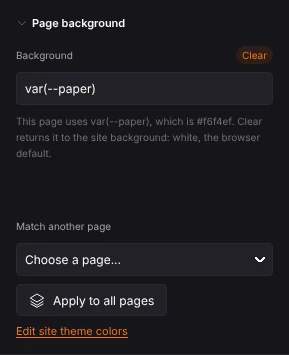
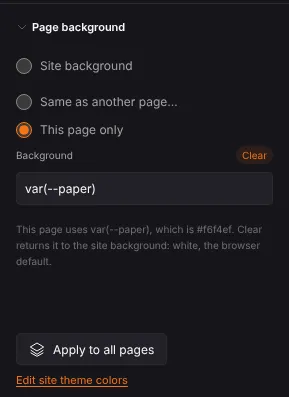
docs(guide): Page background and theme colors explains the three choices and the site background, with a worked example in Harbour Ferries and new pictures; the guide index names it

diff --git a/docs/guide/05-background-and-theme-colors.md b/docs/guide/05-background-and-theme-colors.md
@@ -8,17 +8,18 @@ The examples use **Coldmere Plumbing** (**Help > Demos > Coldmere Plumbing**) an
 
 A page's background is the background of its top layer, the page itself (the first row in the Layers list). A new page has no background of its own, so it shows what a browser shows for a page with no colors: a white background and black text. That is true on the canvas and in the exported site alike.
 
-So when you add a page to a site with a colored design, the new page starts white unless you choose otherwise. You decide where a page's background comes from, in three places:
+So when you add a page to a site with a colored design, the new page starts white unless you choose otherwise. You decide where a page's background comes from:
 
+- for the whole site, with a **site background**: one color that every page on it shows and that new pages start with (see [The site background](#the-site-background));
 - when you add the page, with **Background** in the Add page dialog;
-- afterwards, with **Match another page** in the Page background section;
+- afterwards, with **Same as another page...** in the Page background section;
 - for every page at once, with **Apply to all pages**, or by changing a theme color the pages share (see below).
 
 ## Choose the background of a new page
 
 The Add page dialog (the **+** next to PAGES, or **Add page...** in a page's right-click menu) has a **Background** list:
 
-- **Site background (white)**, chosen at first: the page has no background of its own, so it is white with black text.
+- **Site background**, chosen at first. When the site has a site background, this item shows its color, for example "Site background (#f3f6f7)", and the new page uses it. When it has none, it reads **Site background (white)**: the page has no background of its own, so it is white with black text.
 - **Same as Home (home page)**: the new page starts with the home page's background and text color.
 - **Same as** the page open now: the page you were on when you clicked **+**, for example "Same as Contact, the page open now". This item is there when the open page is not the home page.
 
@@ -32,14 +33,47 @@ The new page gets a copy of the values, not a link: if you later type a new back
 
 Choose **Page > Page background...**, right-click an empty part of the page and choose **Page background**, or right-click the page in the PAGES list and choose **Page background...**. The right panel opens the **Page** tab at its **Page background** section.
 
-![The Page background section of Coldmere's Home page: Background reads var(--paper), with a Clear link; the note says this page uses var(--paper), which is #f6f4ef, and Clear returns it to the site background, white, the browser default; under it the Match another page list reading Choose a page..., the Apply to all pages button and the Edit site theme colors link](images/background-page-field.webp)
+The section starts with three choices. The one the page uses now is chosen:
+
+- **Site background**: the page shows the site background, the one color for the whole site. See [The site background](#the-site-background).
+- **Same as another page...**: shows the **Match another page** list, to copy another page's background.
+- **This page only**: the page has a background of its own, typed in the **Background** field.
+
+![The Page background section of Coldmere's Home page: This page only is chosen, Background reads var(--paper), with a Clear link; the note says this page uses var(--paper), which is #f6f4ef, and Clear returns it to the site background, white, the browser default; under it the Apply to all pages button and the Edit site theme colors link](images/background-page-field.webp)
+
+With **This page only** chosen:
 
 - **Background** takes a color such as `#f3efe6`, a color name, a gradient, or one of the site's colors such as `var(--paper)`. Press Enter to keep it. If the browser cannot read what you typed as a background (for example two values run together, like `var(--bg)#f3efe6`), the field goes back to what it was and the status line says why.
 - The note under the field says what the page uses now, and which other pages use the same value (for example "Home +7 uses var(--bg)").
 - **Clear** (also **Page > Clear page background**) removes this page's own background. The page is white again.
-- **Match another page** gives this page the background and text color of the page you pick in the list. The home page comes first, marked "(home page)". The list goes back to "Choose a page..." and the status line confirms it, for example "The background and text color of "Home" are now used on "Hello"." It is one undo step. **Page > Use the home page background** does the same with the home page in one click.
+- If the color is so dark that black text cannot be read on it, and the page has no text color of its own, the page's text turns white in the same step, and the status line says so. A light color later turns it back. A text color you chose yourself is never changed.
+- **Match another page** (under **Same as another page...**) gives this page the background and text color of the page you pick in the list. The home page comes first, marked "(home page)". The list goes back to "Choose a page..." and the status line confirms it, for example "The background and text color of "Home" are now used on "Hello"." It is one undo step. **Page > Use the home page background** does the same with the home page in one click.
 - **Apply to all pages** (also **Page > Use this page background on all pages**) gives every page this page's background, in one undo step. The status line confirms it, for example "Background #f3efe6 applied to all 8 pages."
 - The field always sets the page's base (Desktop) style, whatever breakpoint the canvas shows.
+
+## The site background
+
+The site background is one color for the whole site. Every page that uses it shows it, every page you add starts with it, and when you change it, all those pages change at once. It is saved with the site's theme colors as `--page-background`, so the exported site has it too.
+
+A site does not have one until you set it. Until then, **Site background** means white, the browser default, as before, and opening an older site changes nothing.
+
+1. Choose **Site background**. The section shows **Site background colour**.
+2. Type a color and press Enter. The site background is created, this page uses it, and the status line says, for example, "Site background #f3efe6 created. "Hello" uses it, and new pages start with it." It is one undo step.
+
+If the site's design already has a page color, the section offers it as a link, such as **Use --bg (#f3f6f7), the theme page colour**. Click it to make that color the site background instead of typing a second one: the site background then follows the theme color, and the field edits that color.
+
+![The Page background section of Harbour Ferries' Timetable and fares page with Site background chosen: an empty Site background colour field, the link Use --bg (#f3f6f7), the theme page colour, the note that the page uses white, the browser default, and that a colour gives the site a background that new pages start with](images/background-site-offer.webp)
+
+Once the site has one:
+
+- **Site background colour** changes it. On a site with light and dark themes there are two fields, one per theme.
+- The note says how many pages use it, for example "8 of 8 pages use the site background."
+- **Use the site background on all pages** (also **Page > Use the site background on all pages**) puts every page on it, in one undo step. **Apply to all pages**, under **This page only**, still copies one page's own color to every page.
+- Choosing **Site background** on another page puts that page on it at once.
+
+Worked example in Harbour Ferries: open **Timetable and fares**, choose **Page > Page background...**, choose **Site background** and click **Use --bg (#f3f6f7), the theme page colour**. Then click **Use the site background on all pages**: the status line says "All 8 pages use the site background, #f3f6f7." Add a page with the **+** next to PAGES: its Background list starts with **Site background (#f3f6f7)**, and the new page opens in that color.
+
+![The same section after the worked example: Site background chosen, Site background colour, Light reads #f3f6f7 and Site background colour, Dark reads #061722; the note says 8 of 8 pages use the site background and that it follows --bg, so changing it changes that theme colour everywhere it is used](images/background-site.webp)
 
 ## Theme colors: change a color everywhere at once
 

diff --git a/docs/guide/README.md b/docs/guide/README.md
@@ -38,7 +38,7 @@ A demo opens as a new site that is not saved yet. Your saved projects are not to
 2. [Pages and layers](02-pages-and-layers.md): add, rename, reorder and fold pages and layers, set the home page, select several layers at once.
 3. [Working on the canvas](03-canvas.md): select, the right-click menu, drag to move, wrap in a container, copy and paste styles.
 4. [The right panel](04-right-panel.md): the tabs, Search properties, and editing a breakpoint.
-5. [Page background and theme colors](05-background-and-theme-colors.md): why a new page is white, starting a page with the home page's background, matching another page, one page or all pages, the site's theme colors.
+5. [Page background and theme colors](05-background-and-theme-colors.md): why a new page is white, the site background every page can share, starting a page with the home page's background, matching another page, one page or all pages, the site's theme colors.
 6. [Preview](06-preview.md): Preview as published, and the Live responsive preview on the canvas.
 7. [Audit](07-audit.md): what the audit checks and how Select takes you to the problem.
 8. [Export and publishing](08-export-and-publish.md): the zip file, where it goes, and Send to FormPublisher.
